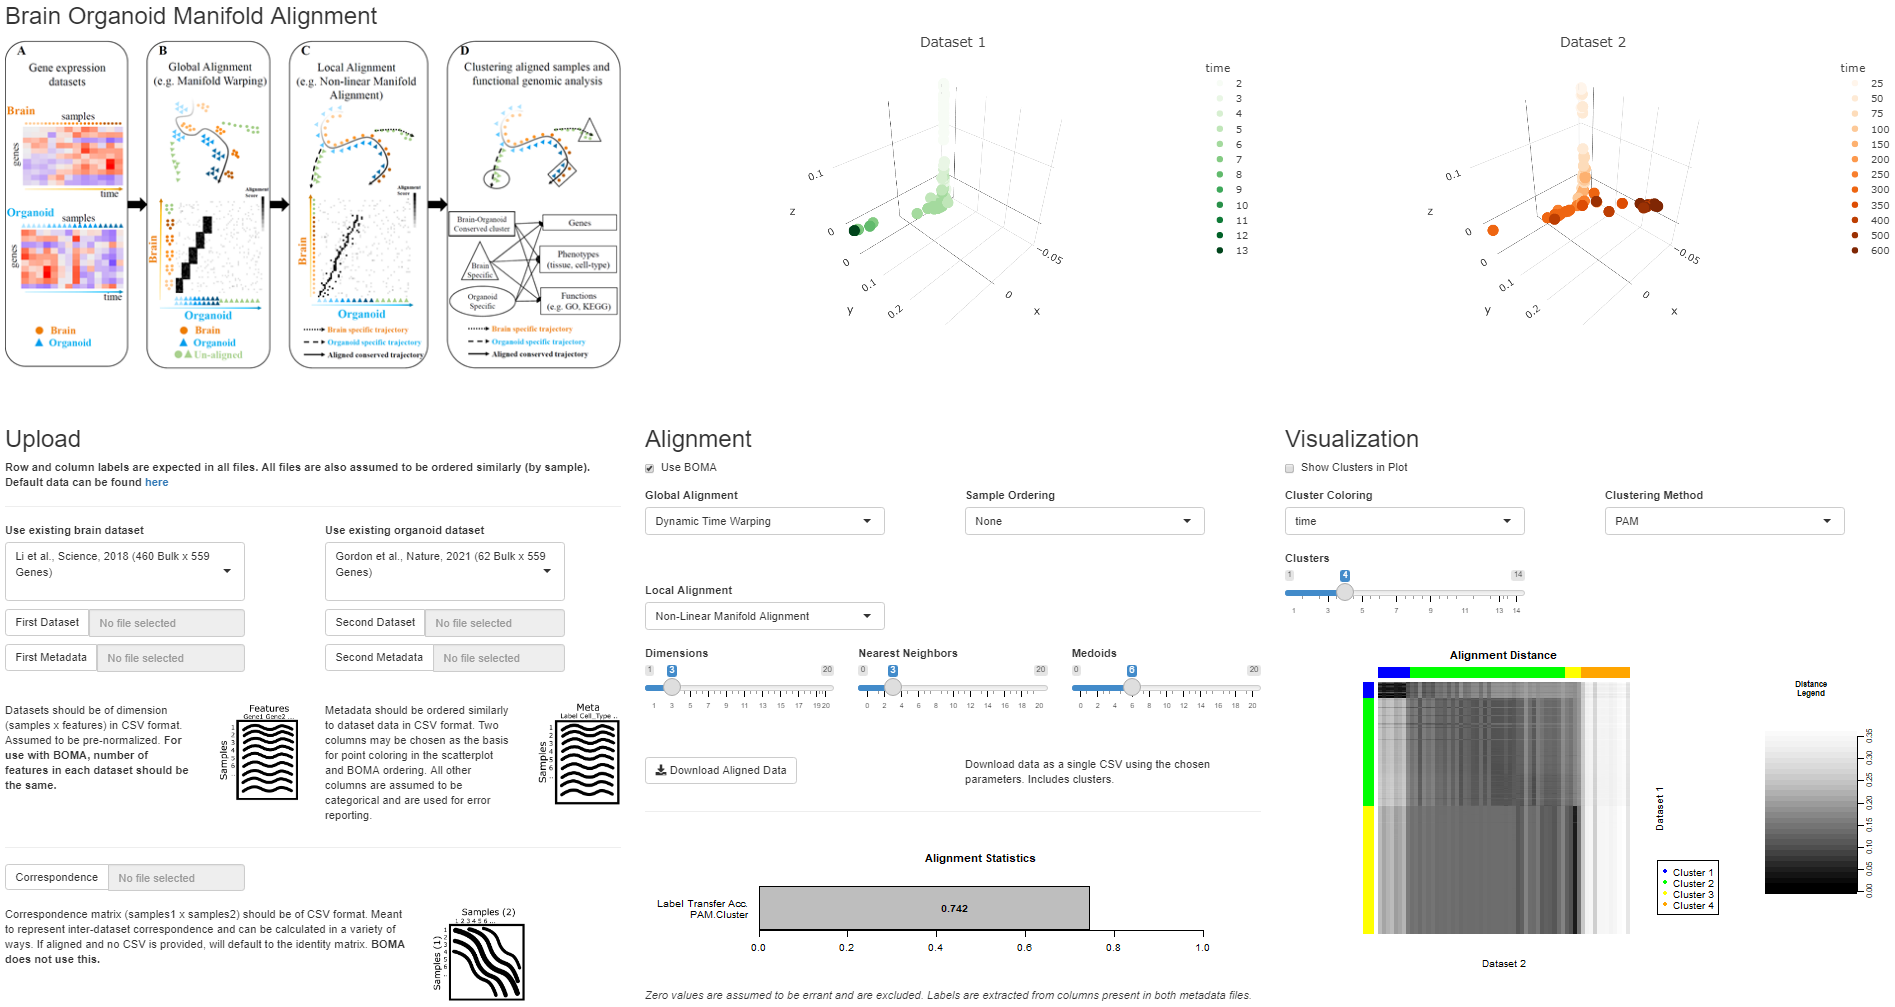
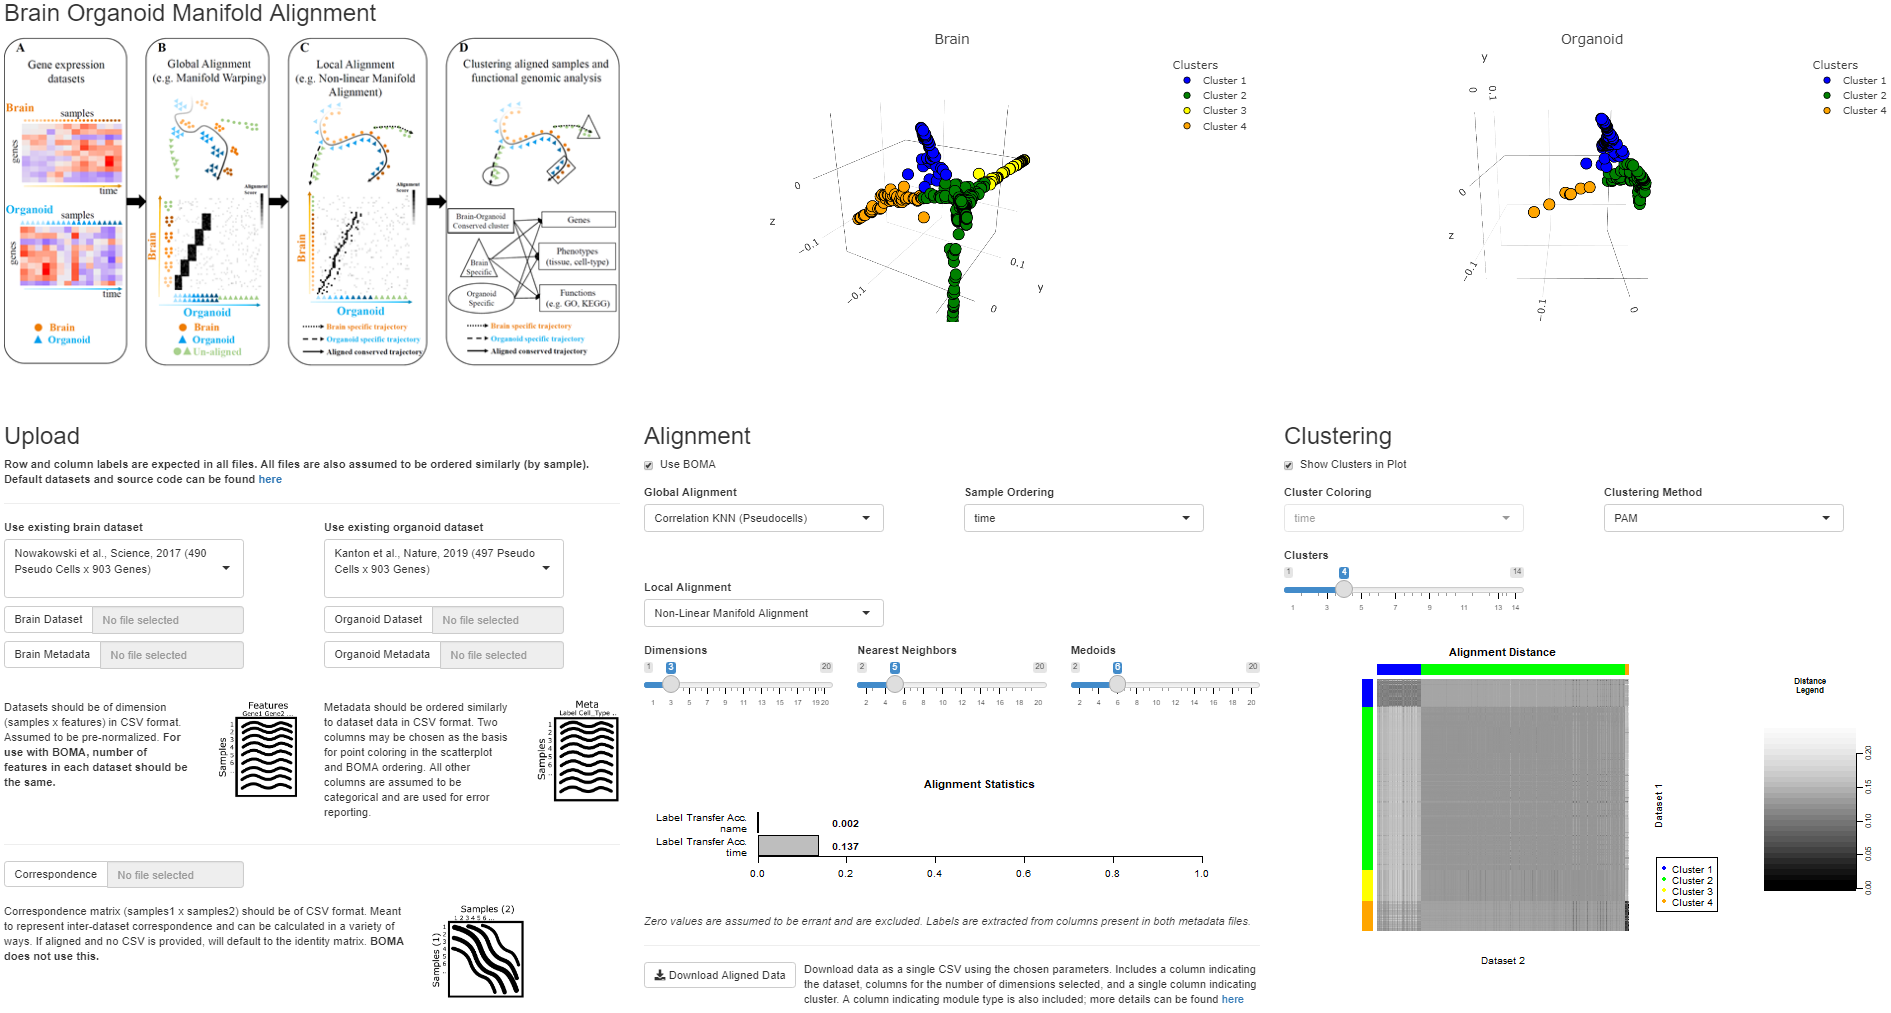
UI, bugfixes, KNN

diff --git a/CHANGELOG.md b/CHANGELOG.md
@@ -1,3 +1,17 @@
+# 1.5.2
+- UI changes
+- More user explanations
+- Dataset renaming and filtering
+- BOMA ordering bugfix
+- Added KNN method for local alignment
+- Automatically detect genes in common between datasets
+
+# 1.5.1
+- UI changes
+- Dataset uploads
+- Dataset size reductions
+- Common gene detection
+
 # 1.5.0
 - Add better dataset annotations
 - Add figure
